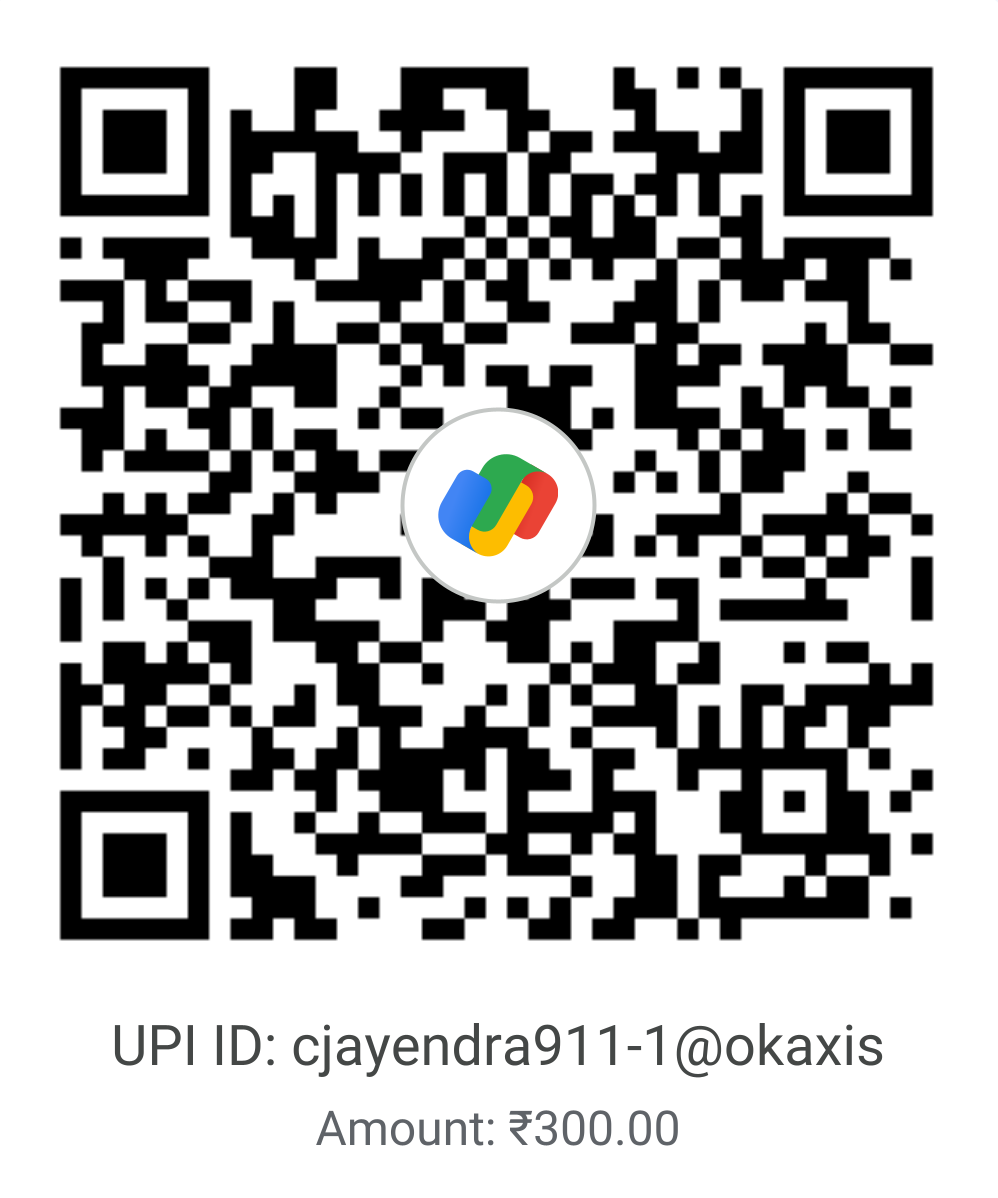
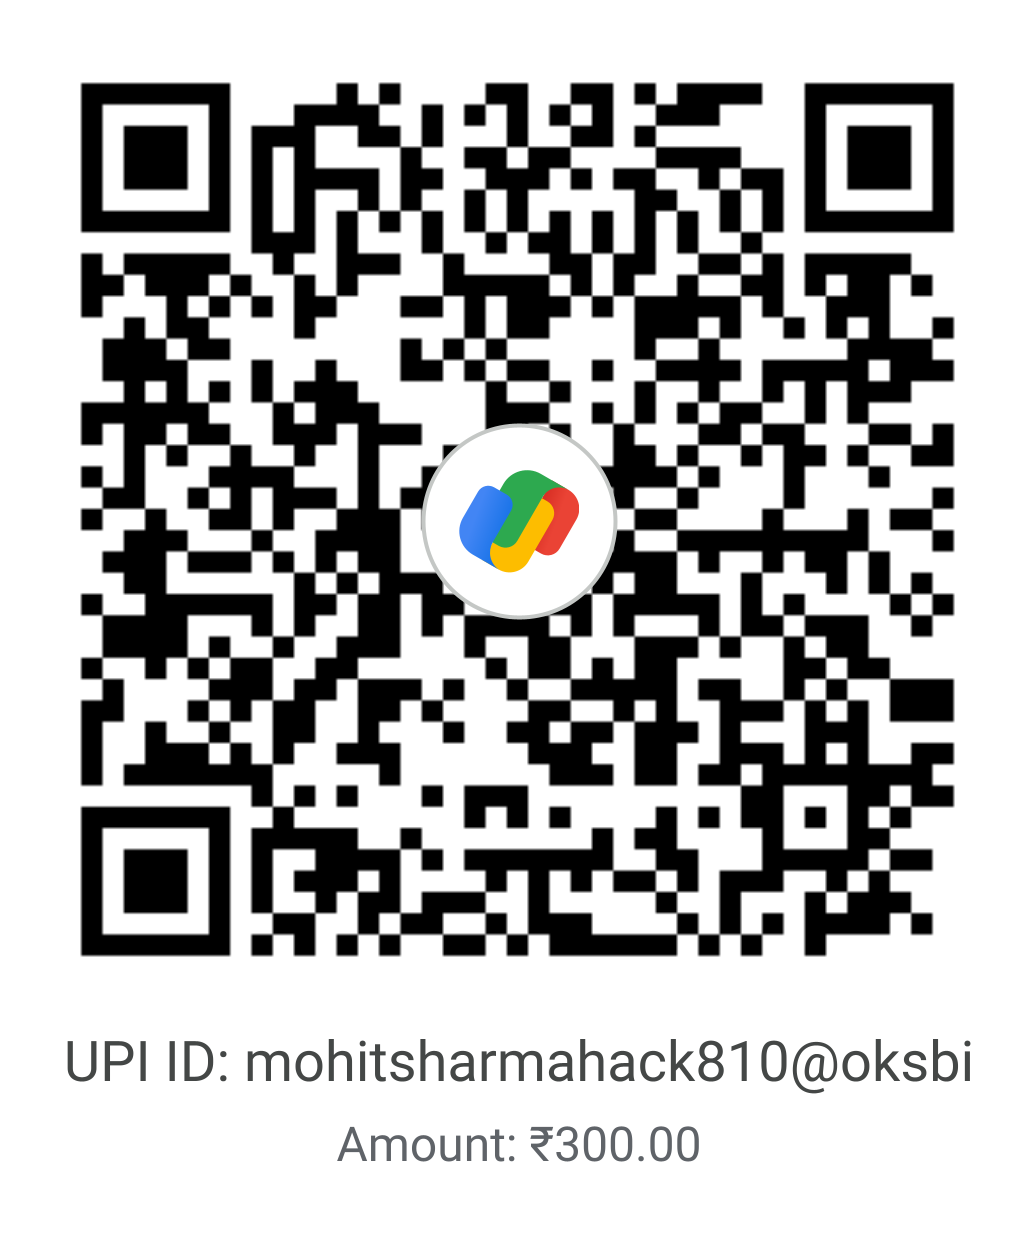
fix

diff --git a/src/events/design-event/RegistrationForm.js b/src/events/design-event/RegistrationForm.js
@@ -713,8 +713,8 @@ Team Information
     handleTeamSize(Number(e.target.value))
   }
 >
-  <MenuItem value={2}>2 Members — ₹299</MenuItem>
-  <MenuItem value={3}>3 Members — ₹399</MenuItem>
+  <MenuItem value={2}>2 Members — ₹300</MenuItem>
+  <MenuItem value={3}>3 Members — ₹450</MenuItem>
 </TextField>
 
 {form.members.map((m, i) => (
@@ -852,7 +852,7 @@ Total Amount: ₹{priceInfo.price}
 Receiver Name
 </Typography>
 <Typography fontSize={13}>
-Jayendra Choudhary
+Mohit Sharma
 </Typography>
 </Box>
 
@@ -861,16 +861,25 @@ Jayendra Choudhary
 UPI ID
 </Typography>
 <Typography fontSize={13}>
-cjayendra911-1@okaxis
+mohitsharmahack810@oksbi
 </Typography>
 </Box>
 
-<Box display="flex" justifyContent="space-between">
+<Box display="flex" justifyContent="space-between" mb={1}>
 <Typography fontSize={13} color="#d5d5d5">
 Payment Note
 </Typography>
 <Typography fontSize={13}>
 BuildX - {form.teamName || "Team"}
+</Typography>
+</Box>
+
+<Box display="flex" justifyContent="space-between">
+<Typography fontSize={13} color="#d5d5d5">
+Note
+</Typography>
+<Typography varient="caption" fontSize={13} textAlign={"right"} width={250}>
+Make sure that your Transaction ID will be properly visible for faster verification.
 </Typography>
 </Box>
 
@@ -885,7 +894,6 @@ BuildX - {form.teamName || "Team"}
   alt="QR"
   style={{
     borderRadius: 10,
-    border: "1px solid #ffffff",
   }}
 />
 </Box>
